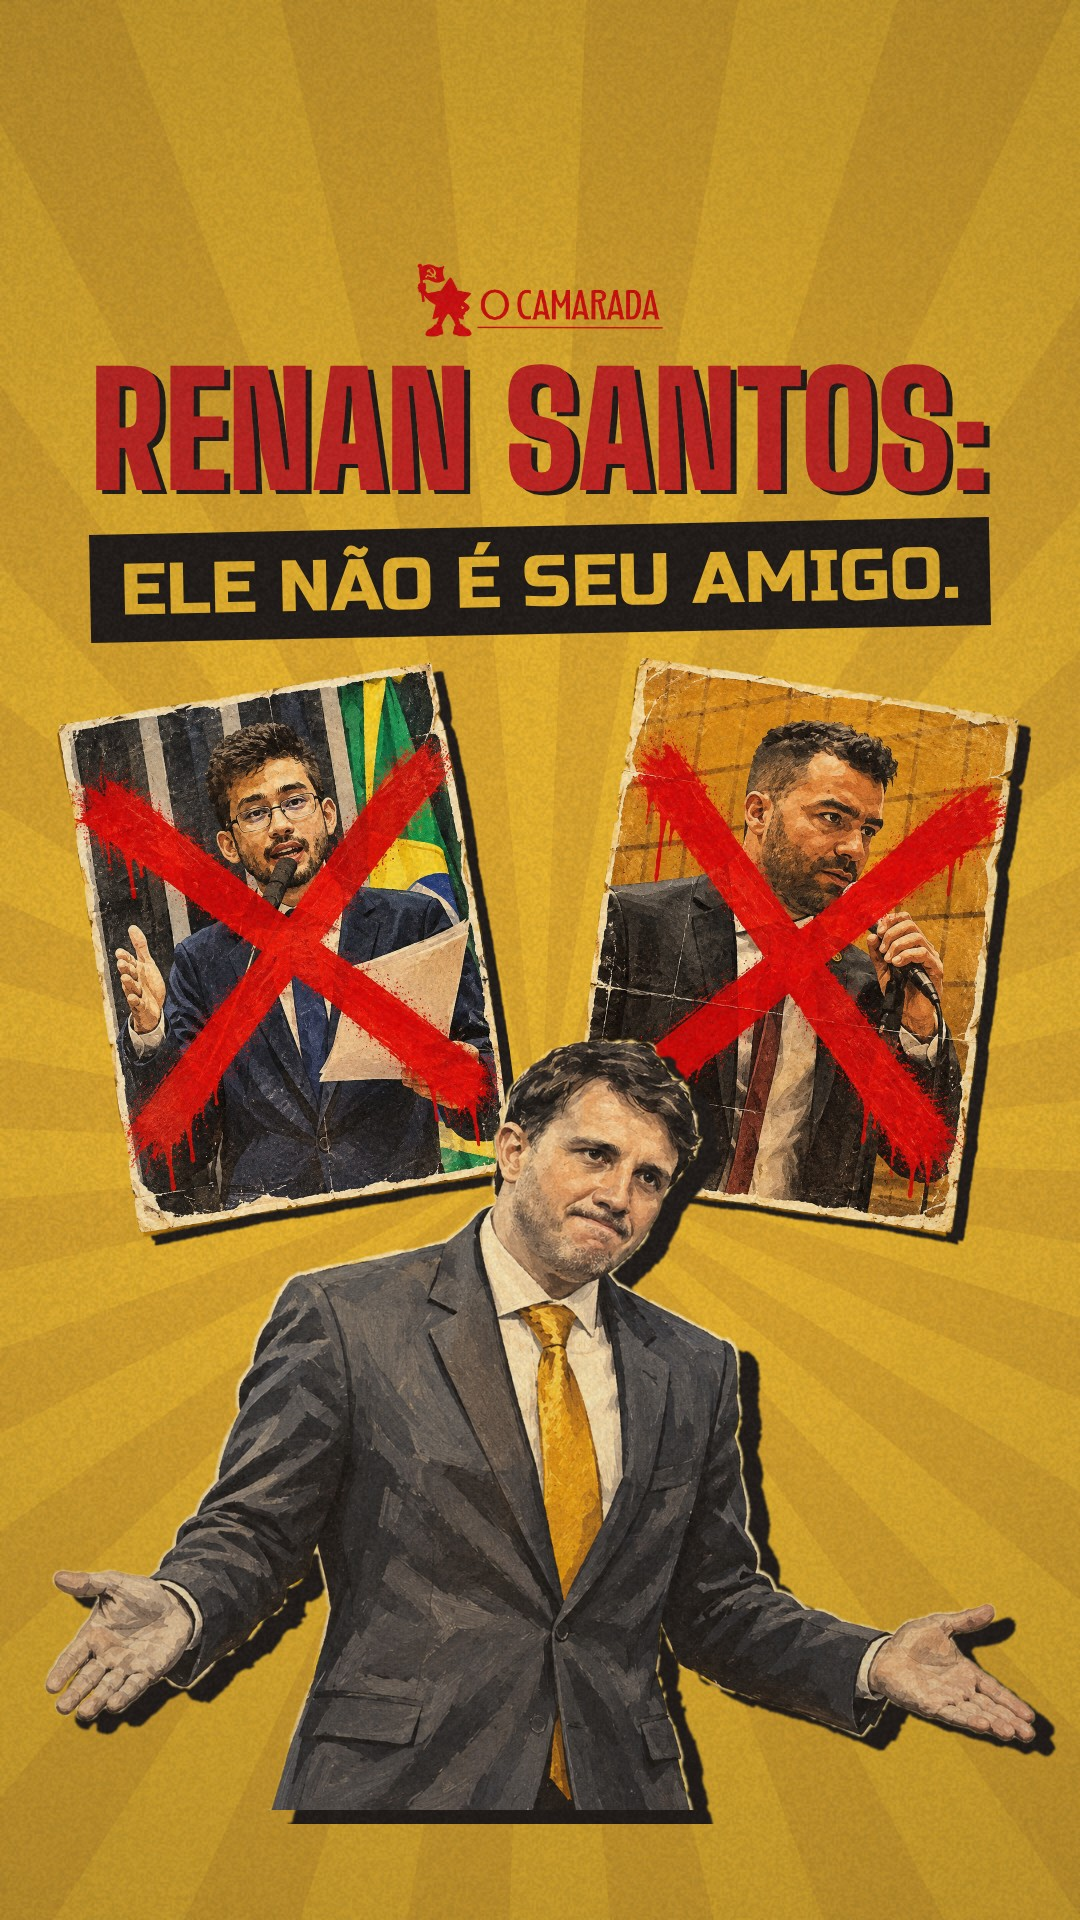
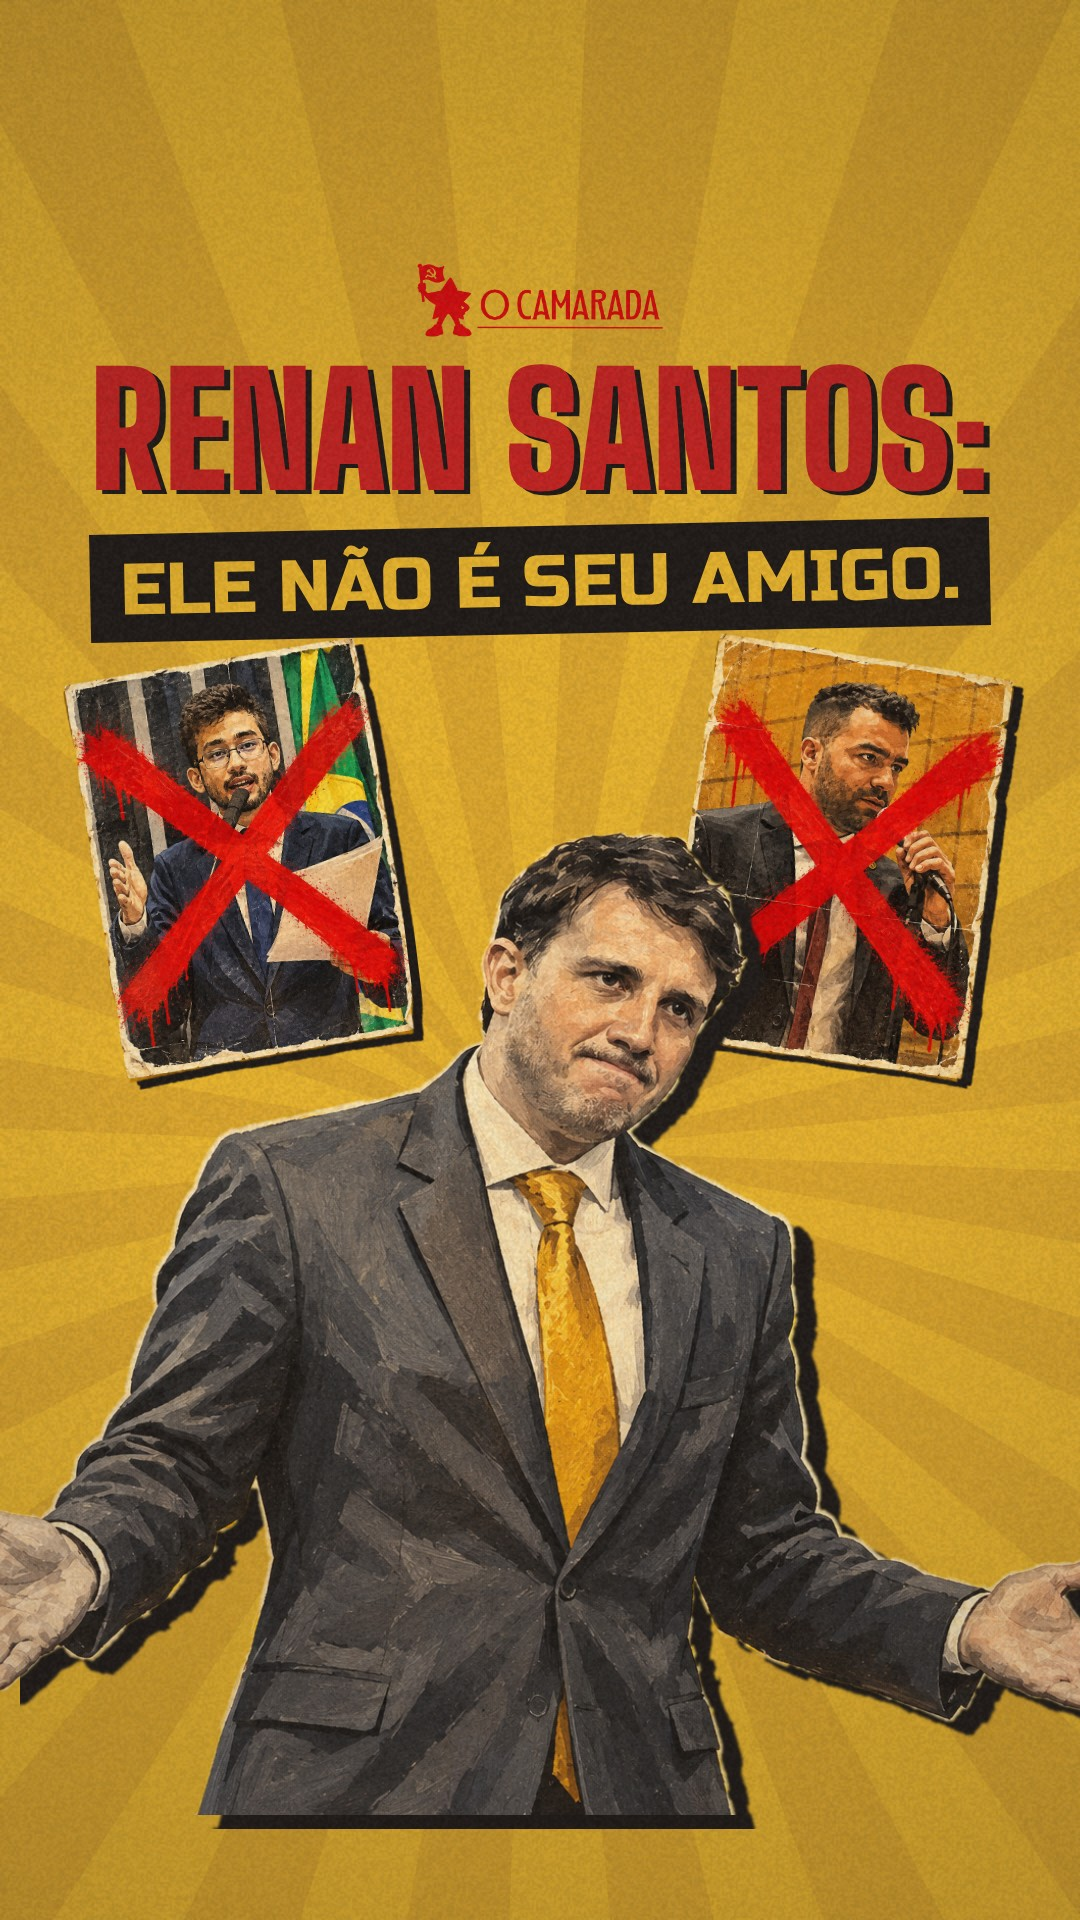
Capa Renan Santos: Renan bem maior, cartazes riscados menores
Claude-Session: https://claude.ai/code/session_01XvS1r1hd7opp6YTvynsDv3

diff --git a/motor/cenas/capa-renan-santos.js b/motor/cenas/capa-renan-santos.js
@@ -28,16 +28,16 @@ window.CENA = {
 
     // os dois cartazes riscados, atrás e menores (recortes da arte: esquerdo x 54–765, direito x 790–1482, y 35–987)
     const R = L.img.riscados;
-    [[54, 765, 285, 950, -7], [790, 1482, 795, 950, 6]].forEach(([x0, x1, cx, cy, ang]) => comSombra(g => {
-      const w = 400, esc = w / (x1 - x0), h = (987 - 35) * esc;
+    [[54, 765, 240, 860, -7], [790, 1482, 840, 860, 6]].forEach(([x0, x1, cx, cy, ang]) => comSombra(g => {
+      const w = 310, esc = w / (x1 - x0), h = (987 - 35) * esc;
       g.translate(cx, cy); g.rotate(ang * Math.PI / 180);
       g.drawImage(R, x0, 35, x1 - x0, 952, -w / 2, -h / 2, w, h);
-    }, 12));
+    }, 10));
 
     // o Renan em evidência, subindo da borda de baixo (recorte: x 155–1393, y 61–1024)
     comSombra(g => {
-      const img = L.img.renan, esc = 0.8, w = img.width * esc, h = img.height * esc;
-      const x = CX - ((155 + 1393) / 2) * esc, y = H - 110 - h;      // sobe 110 px: mãos e rosto dentro do recorte 3:4 do grid (y 240–1680)
+      const img = L.img.renan, esc = 1.02, w = img.width * esc, h = img.height * esc;
+      const x = CX - ((155 + 1393) / 2) * esc, y = H - 105 - h;     // bem grande: as pontas dos dedos podem sair pelas laterais; mãos e rosto no recorte 3:4 (y 240–1680)
       g.drawImage(img, x, y, w, h);
     }, 20);
 
